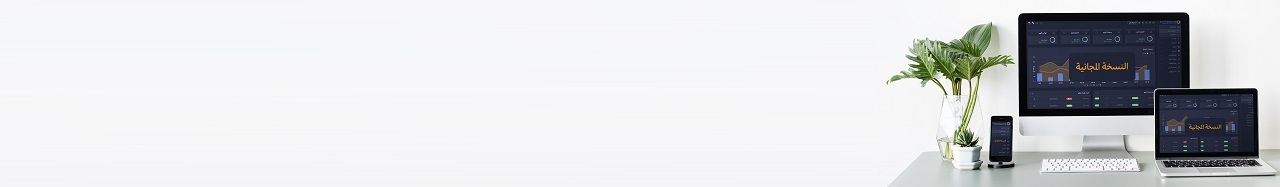
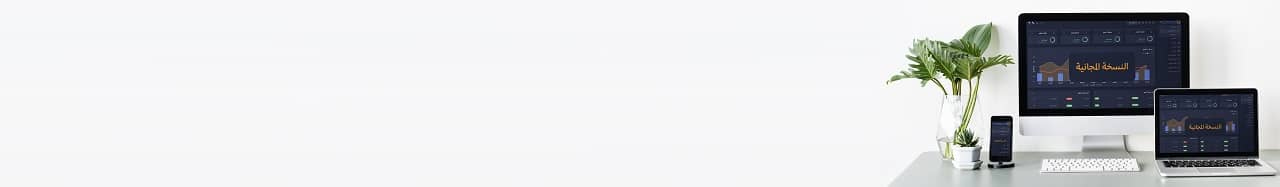
fanishing-2

diff --git a/index.html b/index.html
@@ -427,7 +427,7 @@
                             
                             <div class="col-lg-6 col-md-6 col-sm-12 col-xs-12 mb-3 mb-lg-0">
 								<div class="slider-thumb" data-swiper-parallax="-400" data-swiper-parallax-duration="600">
-									<img class="swiper-lazy" src="img/Asset%202-2.png" alt="slider">
+									<img class="swiper-lazy" src="img/PBLTJU1.webp" alt="slider">
 								</div>
 							</div>
                             
@@ -1363,7 +1363,7 @@
             
              <div class="banner-img d-flex flex-column align-items-center justify-content-center">
             
-            <img src="img/93.png" class="img-fluid">
+            <img src="img/93.webp" class="img-fluid">
             
             </div>
             
@@ -1506,7 +1506,7 @@
         
         <div class="banner-2 d-flex flex-column align-items-center justify-content-center mb-md-4 mb-lg-0">
             
-            <img class="img-fluid" src="img/2099.png" style="margin-left: 50px">
+            <img class="img-fluid" src="img/2099.webp" style="margin-left: 50px">
             </div>
         
         </div>
